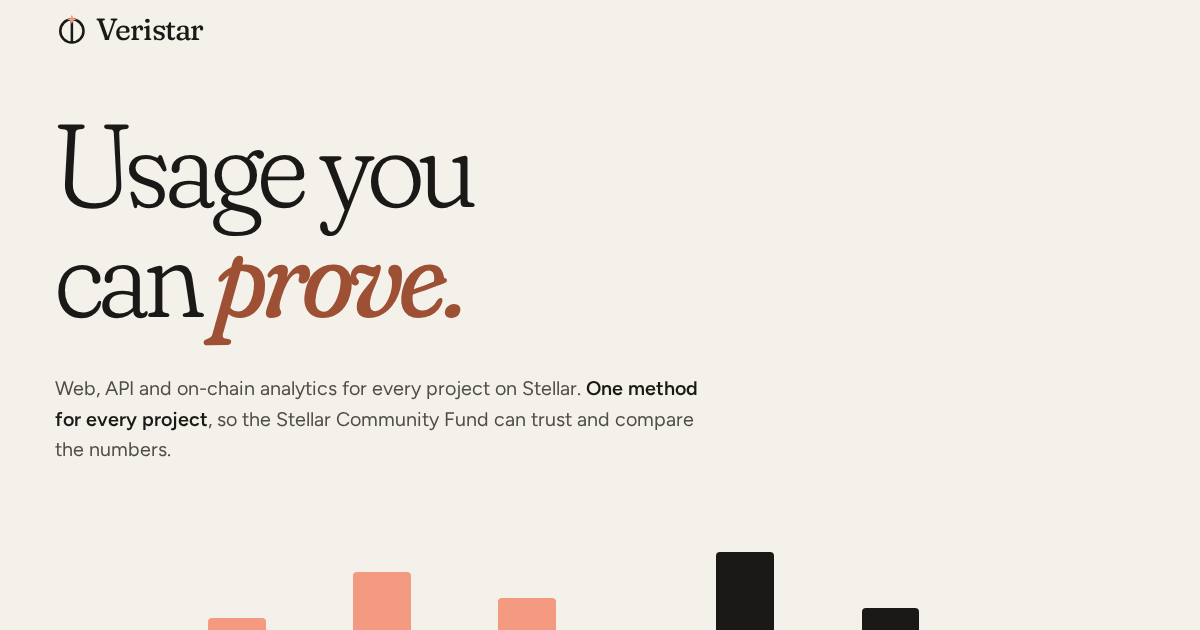
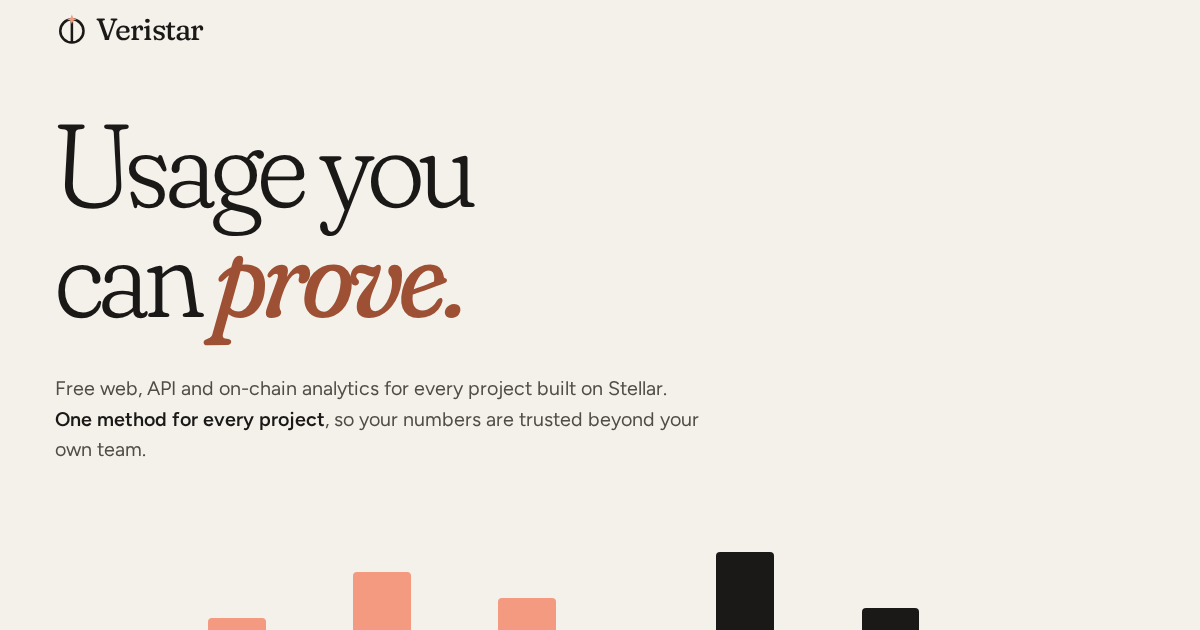
reframe the landing page around projects, with scf as the overseer of the shared service

Changed region(s): [[0.0308, 0.6032, 0.5858, 0.7238]]

diff --git a/apps/site/src/landing/landing.tsx b/apps/site/src/landing/landing.tsx
@@ -125,9 +125,9 @@ function Hero() {
         </h1>
         <div className="hero-row">
           <p className="hero-sub enter d2">
-            Web, API and on-chain analytics for every project on Stellar.{" "}
-            <strong>One method for every project</strong>, so the Stellar Community Fund can trust
-            and compare the numbers.
+            Free web, API and on-chain analytics for every project built on Stellar.{" "}
+            <strong>One method for every project</strong>, so your numbers are trusted beyond your
+            own team.
           </p>
           <div className="enter d3">
             <div className="cta">
@@ -215,9 +215,9 @@ function Problem() {
       <div className="wrap">
         <div className="mq-after">
           <p className="mq-body reveal">
-            SCF has no shared, trusted source of usage data for the projects it funds. Reviewers
-            check eligibility for Growth Hack, the Public Goods Award and the Integration Track with
-            numbers that each project reports itself.
+            Each project measures its usage its own way and reports the numbers itself. A grant
+            program, an investor or a partner cannot check them or compare them with another
+            project.
           </p>
           <p className="mq-out reveal">
             Veristar measures every project with <em>the same method.</em> The circle stops.
@@ -396,8 +396,8 @@ function Trust() {
             </div>
             <h3 className="h3">Each project gets an integrity grade, with the reasons.</h3>
             <p className="small">
-              You see the same grade as SCF and can appeal it. The grade goes into every signed
-              report. A reviewer opens the link and checks the signature without an account.
+              You see the same grade as SCF operators and can appeal it. The grade goes into every
+              signed report. Whoever gets the link checks the signature without an account.
             </p>
             <TLink href={hrefs.docs("onboarding/signed-reports")}>How signed reports work</TLink>
           </div>
@@ -928,7 +928,7 @@ function Comparison() {
         <SplitHead
           title="Why not"
           em="Google Analytics?"
-          lead="General tools measure one site for its owner. Veristar measures every Stellar project in the same way, for its team and for SCF."
+          lead="General tools measure one site for its owner. Veristar measures every Stellar project in the same way, so its numbers mean the same to anyone who reads them."
         />
         <div
           className="versus-wrap reveal"
@@ -986,7 +986,7 @@ function Doors() {
         <div className="split-head reveal">
           <div>
             <h2 className="h2">
-              For builders, for SCF, <em>for reviewers.</em>
+              For builders, for reviewers, <em>for SCF.</em>
             </h2>
           </div>
         </div>
@@ -1061,8 +1061,8 @@ function Closing() {
         </h2>
         <div className="reveal">
           <p>
-            <strong>Measure your project the way SCF reads it.</strong> Share numbers that anyone
-            can check, instead of numbers that you must defend.
+            <strong>Measure your project the same way as every project on Stellar.</strong> Share
+            numbers that anyone can check, instead of numbers that you must defend.
           </p>
           <div className="cta">
             <a className="btn btn-primary" href={hrefs.signIn}>

diff --git a/apps/site/src/landing/data.ts b/apps/site/src/landing/data.ts
@@ -18,7 +18,7 @@ export const heroBars = [
   { h: 50, dy: -8, r: -2, v: "v2" },
 ] as const;
 
-// the problem: the review cycle that scf reviewers run today, and veristar's fix for each step
+// the problem: the review cycle a project goes through today, and veristar's fix for each step
 export const reviewSteps = [
   { step: "A project assembles its own usage report", fix: "Veristar measures it for you" },
   { step: "Reviewers question the numbers", fix: "Five checks on every page view" },
@@ -40,7 +40,7 @@ export const verbs = [
   {
     who: "Everyone",
     w: "Read",
-    p: "Your team reads a private dashboard. SCF reads totals across projects. Reviewers verify signed reports.",
+    p: "Your team reads a private dashboard. Anyone you share a signed report with verifies it. SCF operators compare totals across projects.",
   },
 ];
 
@@ -417,16 +417,9 @@ export const doors = [
   {
     for: "For project teams",
     name: "Builders",
-    p: "Free analytics without cookies. A signed report for your next SCF application, instead of screenshots.",
+    p: "Free analytics without cookies. A signed usage report for a grant program, an investor or a partner, instead of screenshots.",
     link: "Enroll your project",
     href: hrefs.signIn,
-  },
-  {
-    for: "For the Stellar Community Fund",
-    name: "SCF",
-    p: "Compare every project on the same metrics. Review, approve and remove projects from one place.",
-    link: "Operator guide",
-    href: hrefs.docs("operators/overview"),
   },
   {
     for: "For anyone who checks",
@@ -434,6 +427,13 @@ export const doors = [
     p: "Open the link of a signed report. Check the numbers and the signature without an account.",
     link: "Signed reports",
     href: hrefs.docs("onboarding/signed-reports"),
+  },
+  {
+    for: "For the Stellar Community Fund",
+    name: "SCF",
+    p: "Compare every project on the same metrics. Review, approve and remove projects from one place.",
+    link: "Operator guide",
+    href: hrefs.docs("operators/overview"),
   },
 ];
 
@@ -470,6 +470,6 @@ export const faq = [
   },
   {
     q: "What does Veristar cost?",
-    a: "Nothing. Projects, SCF and everyone else pay no fees. There is no paid tier and there are no ads.",
+    a: "Nothing. Veristar is a free shared service for the Stellar ecosystem. There is no paid tier and there are no ads.",
   },
 ];

diff --git a/apps/site/index.html b/apps/site/index.html
@@ -11,7 +11,7 @@
     <title>Veristar, usage you can prove</title>
     <meta
       name="description"
-      content="Web, API and on-chain analytics for every project on Stellar. One method for every project, so the Stellar Community Fund can trust and compare the numbers. Free, with no cookies and no stored IP addresses."
+      content="Free web, API and on-chain analytics for every project built on Stellar, with no cookies and no stored IP addresses. One method for every project, and signed usage reports that anyone can verify without an account."
     />
     <link rel="canonical" href="%VITE_SITE_ORIGIN%/" />
     <link rel="icon" type="image/svg+xml" href="/favicon.svg" />
@@ -22,14 +22,14 @@
     <meta property="og:title" content="Veristar, usage you can prove" />
     <meta
       property="og:description"
-      content="Web, API and on-chain analytics for every project on Stellar, with one method for every project."
+      content="Free web, API and on-chain analytics for every project built on Stellar, with one method for every project."
     />
     <meta property="og:image" content="%VITE_SITE_ORIGIN%/og.png" />
     <meta property="og:image:width" content="1200" />
     <meta property="og:image:height" content="630" />
     <meta
       property="og:image:alt"
-      content="Veristar. Usage you can prove. Web, API and on-chain analytics for every project on Stellar."
+      content="Veristar. Usage you can prove. Free web, API and on-chain analytics for every project built on Stellar."
     />
     <meta name="twitter:card" content="summary_large_image" />
     <!-- the site measures itself with veristar; see README.md, Tracker -->
